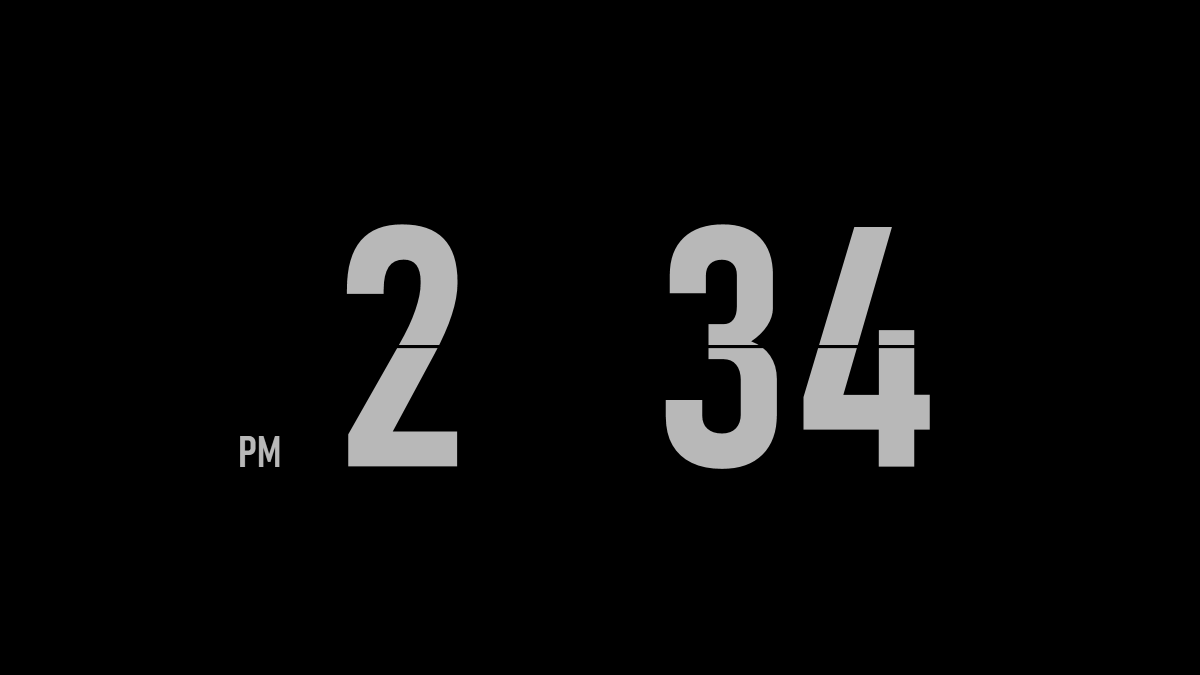
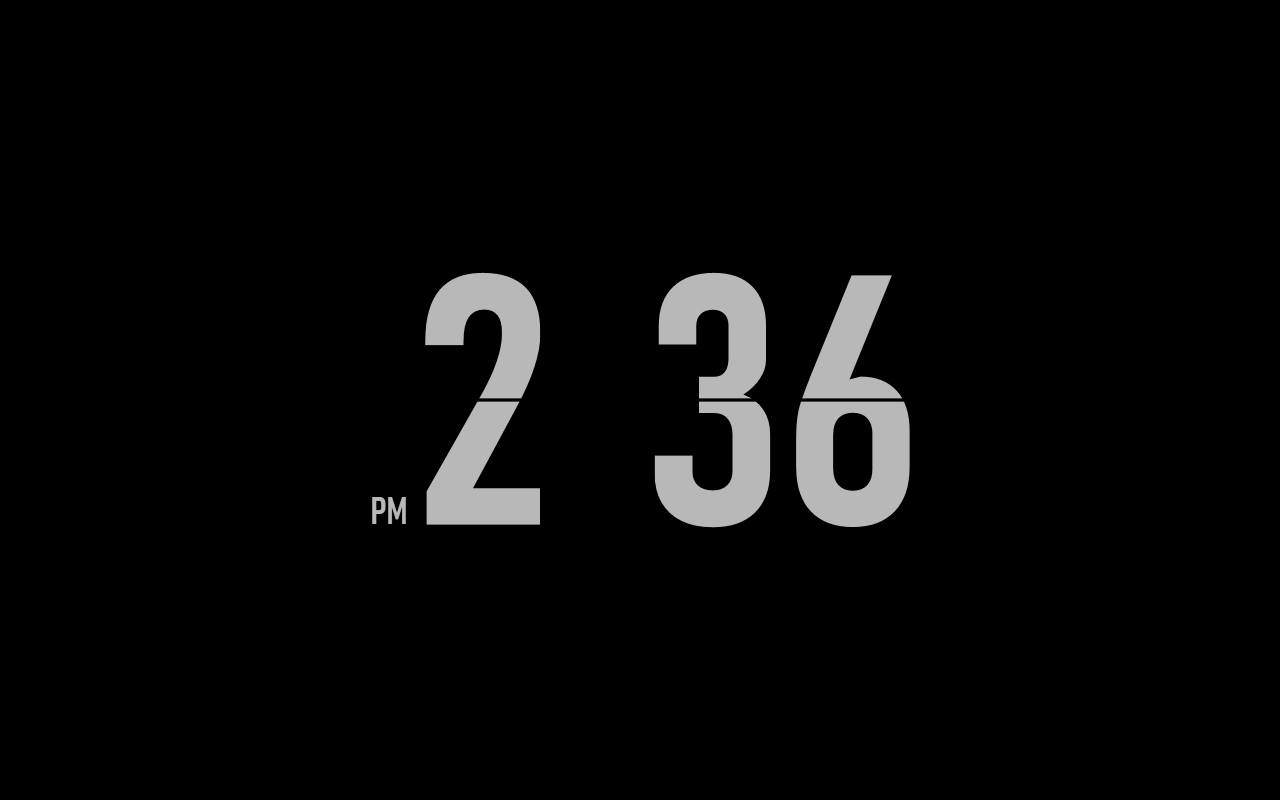
Make the clock smaller and centre it on screen

Changed region(s): [[0.4933, 0.3111, 0.8017, 0.7156], [0.2775, 0.3111, 0.4317, 0.7156], [0.185, 0.6533, 0.2467, 0.6844]]

diff --git a/FlipClock.cs b/FlipClock.cs
@@ -132,12 +132,13 @@ namespace FlipClock
     // A card showing two digits. A change folds the top half down over the bottom half.
     public class FlipCard : Grid
     {
-        internal const double CardWidth = 470;
+        internal const double CardWidth = 360; // Just wider than the widest pair of digits
         internal const double CardHeight = 500;
         internal const double Corner = 34;
         private const double DigitSize = 430;
         private const double MaxShade = 0.55;
-        private static readonly Duration FlipTime = TimeSpan.FromMilliseconds(600);
+        private const double LabelGap = 22;
+        internal static readonly Duration FlipTime = TimeSpan.FromMilliseconds(600);
 
         // Same as the screen background, so only the digits and the split across them show.
         // Each half still needs this fill, to hide the digits behind it during a flip.
@@ -162,16 +163,17 @@ namespace FlipClock
             FontFamily = new FontFamily("Bahnschrift, Segoe UI"),
             FontWeight = FontWeights.SemiBold,
             FontStretch = FontStretches.Condensed,
-            FontSize = 56,
-            Foreground = InkBrush,
-            Margin = new Thickness(26, 0, 0, 80),
-            HorizontalAlignment = HorizontalAlignment.Left,
-            VerticalAlignment = VerticalAlignment.Bottom
+            FontSize = 46,
+            Foreground = InkBrush
         };
+        private readonly bool _alignRight;
         private string _value;
 
-        public FlipCard()
+        // Hours align right and minutes align left, which keeps the gap between them the same
+        // when the hour has only one digit
+        public FlipCard(bool alignRight)
         {
+            _alignRight = alignRight;
             Width = CardWidth;
             Height = CardHeight;
             Children.Add(_top);
@@ -184,7 +186,11 @@ namespace FlipClock
                 Fill = Brushes.Black,
                 VerticalAlignment = VerticalAlignment.Center
             });
-            Children.Add(_label);
+            // A Canvas lets the label sit outside the card, just left of the digits
+            var labelLayer = new Canvas();
+            Canvas.SetBottom(_label, 84);
+            labelLayer.Children.Add(_label);
+            Children.Add(labelLayer);
             ApplyProgress(1);
         }
 
@@ -196,6 +202,21 @@ namespace FlipClock
 
         public string Label { set { _label.Text = value; } }
 
+        // Left edge of the digits and label, measured from the left of the card
+        public double VisibleLeft
+        {
+            get
+            {
+                var left = GetGeometry(_value).Bounds.Left;
+                if (string.IsNullOrEmpty(_label.Text))
+                    return left;
+                _label.Measure(new Size(double.PositiveInfinity, double.PositiveInfinity));
+                return left - LabelGap - _label.DesiredSize.Width;
+            }
+        }
+
+        public double VisibleRight { get { return GetGeometry(_value).Bounds.Right; } }
+
         public void ShowValue(string value, bool animate)
         {
             if (value == _value)
@@ -204,6 +225,7 @@ namespace FlipClock
             var oldValue = _value;
             _value = value;
             var digits = GetGeometry(value);
+            Canvas.SetRight(_label, CardWidth - digits.Bounds.Left + LabelGap);
 
             BeginAnimation(FlipProgressProperty, null);
             if (!animate || oldValue == null)
@@ -257,19 +279,20 @@ namespace FlipClock
             }
         }
 
-        private static Geometry GetGeometry(string text)
+        private Geometry GetGeometry(string text)
         {
+            var key = (_alignRight ? "R" : "L") + text;
             Geometry geometry;
-            if (GeometryCache.TryGetValue(text, out geometry))
+            if (GeometryCache.TryGetValue(key, out geometry))
                 return geometry;
 
             // Centring on the shape of "0" keeps the hinge across the middle of every digit
             var outline = TextGeometry(text);
             outline.Transform = new TranslateTransform(
-                (CardWidth - outline.Bounds.Width) / 2 - outline.Bounds.X,
+                _alignRight ? CardWidth - outline.Bounds.Right : -outline.Bounds.X,
                 (CardHeight - ReferenceBounds.Height) / 2 - ReferenceBounds.Y);
             outline.Freeze();
-            GeometryCache[text] = outline;
+            GeometryCache[key] = outline;
             return outline;
         }
 
@@ -290,14 +313,19 @@ namespace FlipClock
     // The clock itself. Scales to fit whatever size it is given.
     public class ClockView : Viewbox
     {
-        private const double Gap = 34;
+        private const double Gap = 140;
         private const double Drift = 14;
+        private const double TypicalSecondsSlack = 46;
 
         private readonly Settings _settings;
-        private readonly FlipCard _hours = new FlipCard();
-        private readonly FlipCard _minutes = new FlipCard();
-        private readonly FlipCard _seconds = new FlipCard();
-        private readonly TranslateTransform _drift = new TranslateTransform();
+        private readonly FlipCard _hours = new FlipCard(true);
+        private readonly FlipCard _minutes = new FlipCard(false);
+        private readonly FlipCard _seconds = new FlipCard(false);
+        private readonly TranslateTransform _offset = new TranslateTransform();
+        private double _driftX;
+        private double _driftY;
+        private double _targetX;
+        private double _targetY;
         private readonly DispatcherTimer _timer = new DispatcherTimer();
         private readonly Random _random = new Random();
         private int _lastMinute = -1;
@@ -310,8 +338,8 @@ namespace FlipClock
             var row = new StackPanel
             {
                 Orientation = Orientation.Horizontal,
-                Margin = new Thickness(180),
-                RenderTransform = _drift
+                Margin = new Thickness(240),
+                RenderTransform = _offset
             };
             row.Children.Add(_hours);
             _minutes.Margin = new Thickness(Gap, 0, 0, 0);
@@ -344,10 +372,37 @@ namespace FlipClock
             // Move slightly each minute so that the same pixels are not lit for hours
             if (_lastMinute != -1 && _lastMinute != now.Minute)
             {
-                _drift.X = (_random.NextDouble() * 2 - 1) * Drift;
-                _drift.Y = (_random.NextDouble() * 2 - 1) * Drift;
+                _driftX = (_random.NextDouble() * 2 - 1) * Drift;
+                _driftY = (_random.NextDouble() * 2 - 1) * Drift;
             }
             _lastMinute = now.Minute;
+
+            MoveTo(GetCentringOffset() + _driftX, _driftY, animate);
+        }
+
+        // Digits differ in width, so centre on what is actually lit rather than on the cards.
+        // With seconds showing, assume a typical width or the clock would shift every second.
+        private double GetCentringOffset()
+        {
+            var cardCount = _settings.ShowSeconds ? 3 : 2;
+            var rowWidth = cardCount * FlipCard.CardWidth + (cardCount - 1) * Gap;
+            var right = _settings.ShowSeconds ? rowWidth - TypicalSecondsSlack : FlipCard.CardWidth + Gap + _minutes.VisibleRight;
+            return rowWidth / 2 - (_hours.VisibleLeft + right) / 2;
+        }
+
+        private void MoveTo(double x, double y, bool animate)
+        {
+            if (x == _targetX && y == _targetY)
+                return;
+            _targetX = x;
+            _targetY = y;
+            _offset.BeginAnimation(TranslateTransform.XProperty, animate ? new DoubleAnimation(x, FlipCard.FlipTime) : null);
+            _offset.BeginAnimation(TranslateTransform.YProperty, animate ? new DoubleAnimation(y, FlipCard.FlipTime) : null);
+            if (!animate)
+            {
+                _offset.X = x;
+                _offset.Y = y;
+            }
         }
 
         // Sleeps until the next change, so nothing runs between flips
